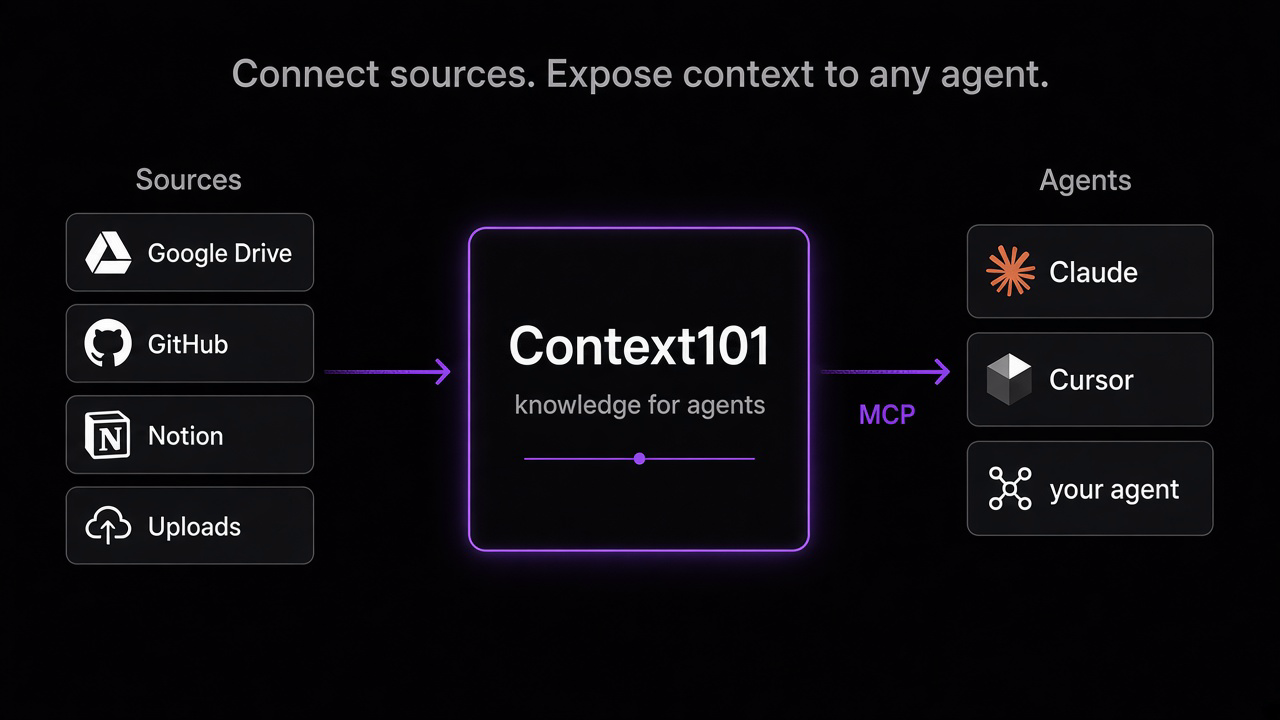
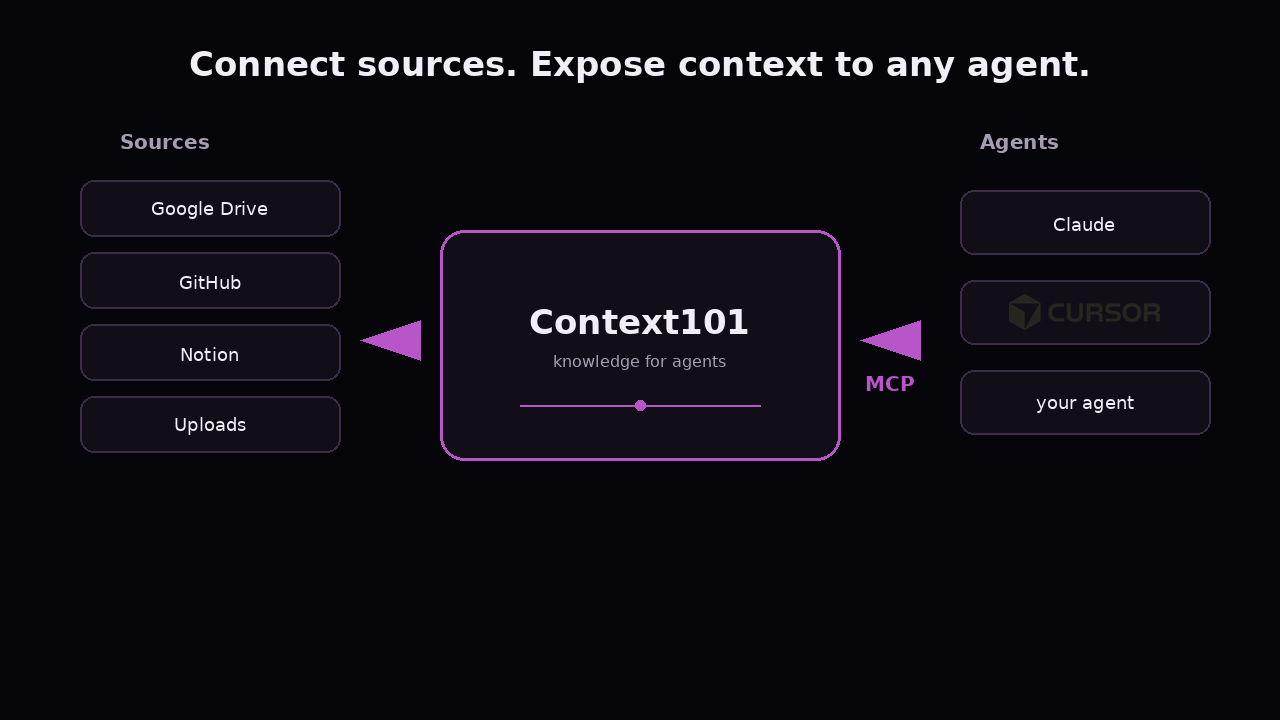
Swap how-it-works lockup and spell out multi-brain isolation
Use the official Cursor horizontal lockup on the diagram. Brains now
says you can create several, each isolated, each with its own MCP URL.

diff --git a/README.md b/README.md
@@ -58,7 +58,9 @@ Deploy is a quiet `deploying…` spinner. `--verbose` dumps cdk / npm / docker. 
 
 ## Brains
 
-A brain is an isolated knowledge base for your docs — the thing agents search. Create one in the admin, connect sources (uploads, Google, GitHub, and others), then point an MCP client at it. Each brain has its own endpoint at `/brain/<id>/mcp`.
+You can create multiple brains for different topics or projects — one for product docs, another for a customer account. Each brain is isolated: its own sources and docs, separate from the others.
+
+Each brain has its own MCP URL (`/brain/<id>/mcp`). Give that URL to an agent or harness and it only sees that brain’s context. Create brains in the admin, connect sources, then point the MCP client at that brain’s URL.
 
 ## Parked features
 
